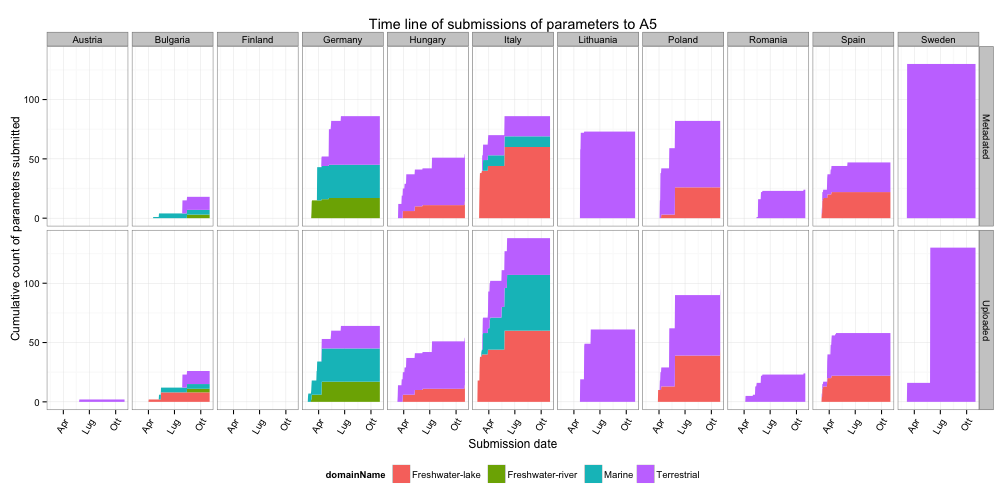
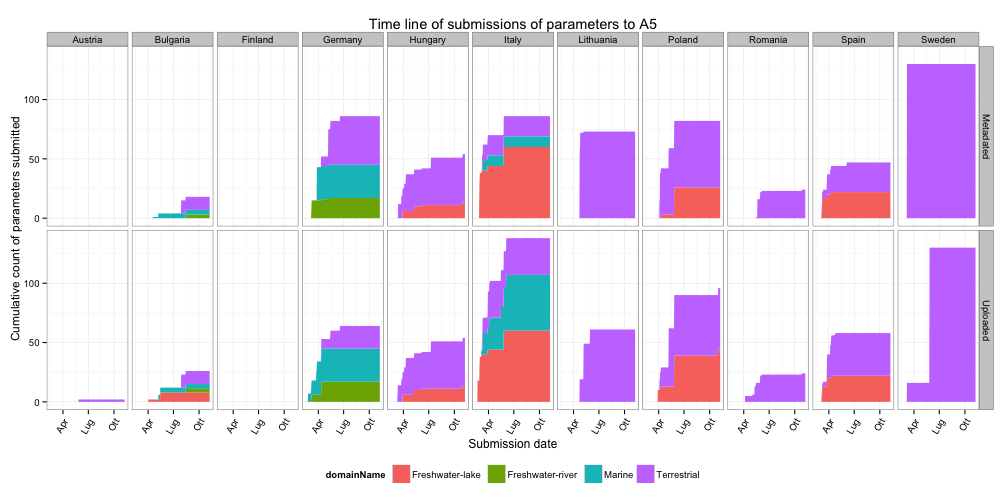
publishing deck

diff --git a/index.html b/index.html
@@ -48,9 +48,9 @@
   </hgroup>
   <article>
     <ul>
-<li>Last updated <code>2013-11-01</code></li>
+<li>Last updated <code>2013-11-08</code></li>
 <li>Deadline for data submission: <code>2013-03-08</code></li>
-<li>Days to deadline: <code>-238</code></li>
+<li>Days to deadline: <code>-245</code></li>
 <li>Total number of sites sampled in 2012: <code>62</code>; sub-sites: <code>66</code></li>
 </ul>
 
@@ -58,13 +58,13 @@
 
 <!-- html table generated in R 3.0.2 by xtable 1.7-1 package -->
 
-<!-- Fri Nov  1 22:04:55 2013 -->
+<!-- Fri Nov  8 12:21:43 2013 -->
 
 <TABLE border=1>
 <TR> <TH>  </TH> <TH> No. uploaded </TH> <TH> No. metadated </TH> <TH> Total no. </TH> <TH> Upload ratio </TH> <TH> Metadata ratio </TH>  </TR>
-  <TR> <TD align="right"> Year2012 </TD> <TD align="right"> 510 </TD> <TD align="right"> 474 </TD> <TD align="right"> 1044 </TD> <TD align="right"> 0.49 </TD> <TD align="right"> 0.45 </TD> </TR>
+  <TR> <TD align="right"> Year2012 </TD> <TD align="right"> 511 </TD> <TD align="right"> 474 </TD> <TD align="right"> 1044 </TD> <TD align="right"> 0.49 </TD> <TD align="right"> 0.45 </TD> </TR>
   <TR> <TD align="right"> Year2011 </TD> <TD align="right"> 143 </TD> <TD align="right"> 126 </TD> <TD align="right"> 275 </TD> <TD align="right"> 0.52 </TD> <TD align="right"> 0.46 </TD> </TR>
-  <TR> <TD align="right"> Sum </TD> <TD align="right"> 653 </TD> <TD align="right"> 600 </TD> <TD align="right"> 1319 </TD> <TD align="right"> 0.50 </TD> <TD align="right"> 0.45 </TD> </TR>
+  <TR> <TD align="right"> Sum </TD> <TD align="right"> 654 </TD> <TD align="right"> 600 </TD> <TD align="right"> 1319 </TD> <TD align="right"> 0.50 </TD> <TD align="right"> 0.45 </TD> </TR>
    </TABLE>
 
   </article>

diff --git a/index.md b/index.md
@@ -26,19 +26,19 @@ github:
 
 ## State of uploading process
 
-* Last updated ``2013-11-01``
+* Last updated ``2013-11-08``
 * Deadline for data submission: `2013-03-08`
-* Days to deadline: ``-238``
+* Days to deadline: ``-245``
 * Total number of sites sampled in 2012: ``62``; sub-sites: ``66``
 
 Parameters uploaded and metadated:
 <!-- html table generated in R 3.0.2 by xtable 1.7-1 package -->
-<!-- Fri Nov  1 22:04:55 2013 -->
+<!-- Fri Nov  8 12:21:43 2013 -->
 <TABLE border=1>
 <TR> <TH>  </TH> <TH> No. uploaded </TH> <TH> No. metadated </TH> <TH> Total no. </TH> <TH> Upload ratio </TH> <TH> Metadata ratio </TH>  </TR>
-  <TR> <TD align="right"> Year2012 </TD> <TD align="right"> 510 </TD> <TD align="right"> 474 </TD> <TD align="right"> 1044 </TD> <TD align="right"> 0.49 </TD> <TD align="right"> 0.45 </TD> </TR>
+  <TR> <TD align="right"> Year2012 </TD> <TD align="right"> 511 </TD> <TD align="right"> 474 </TD> <TD align="right"> 1044 </TD> <TD align="right"> 0.49 </TD> <TD align="right"> 0.45 </TD> </TR>
   <TR> <TD align="right"> Year2011 </TD> <TD align="right"> 143 </TD> <TD align="right"> 126 </TD> <TD align="right"> 275 </TD> <TD align="right"> 0.52 </TD> <TD align="right"> 0.46 </TD> </TR>
-  <TR> <TD align="right"> Sum </TD> <TD align="right"> 653 </TD> <TD align="right"> 600 </TD> <TD align="right"> 1319 </TD> <TD align="right"> 0.50 </TD> <TD align="right"> 0.45 </TD> </TR>
+  <TR> <TD align="right"> Sum </TD> <TD align="right"> 654 </TD> <TD align="right"> 600 </TD> <TD align="right"> 1319 </TD> <TD align="right"> 0.50 </TD> <TD align="right"> 0.45 </TD> </TR>
    </TABLE>
 
 
